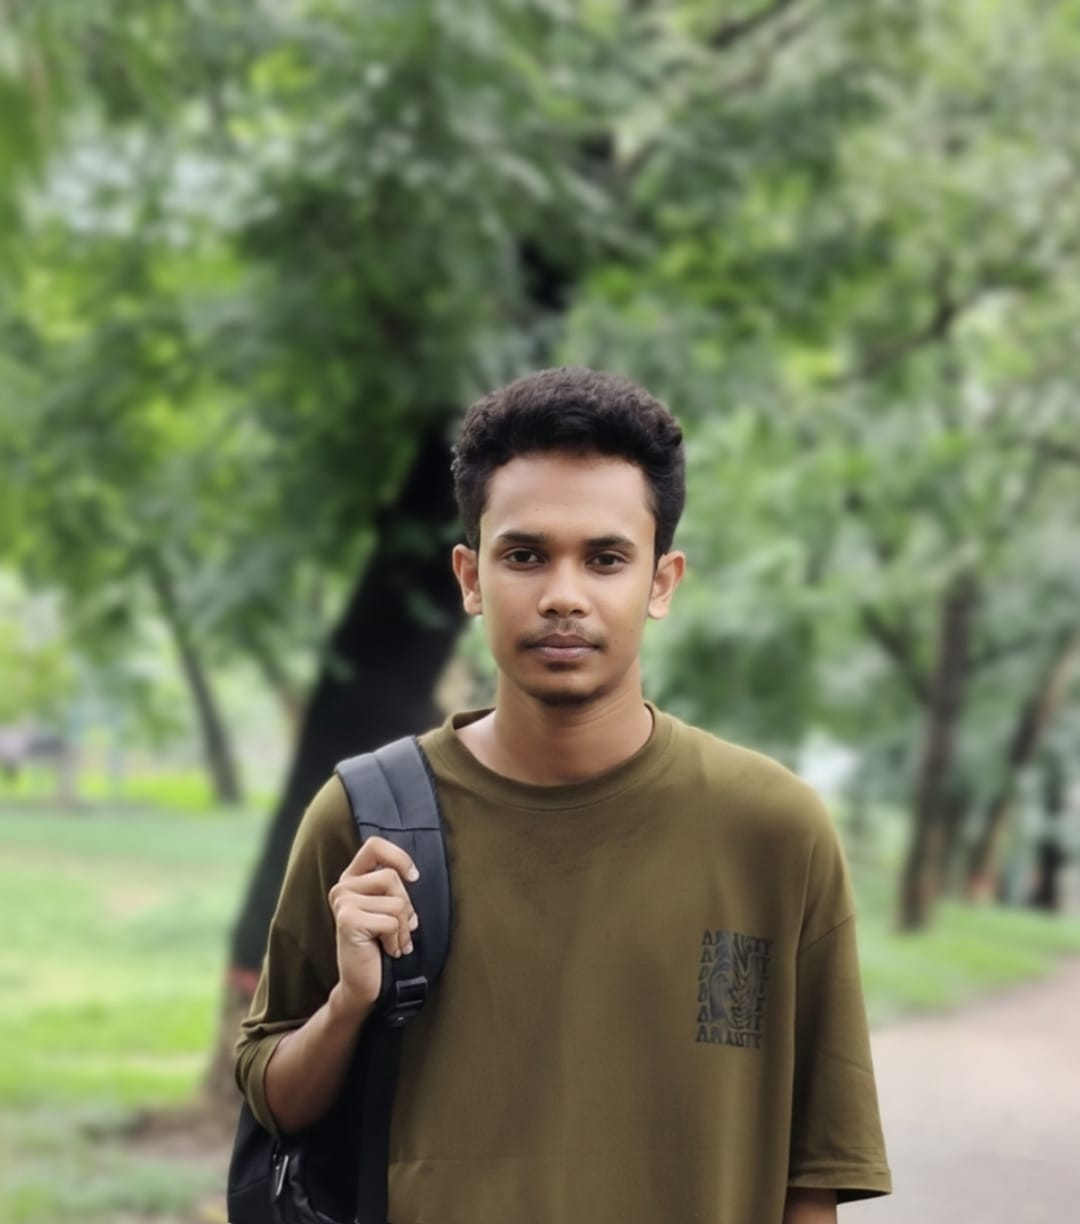
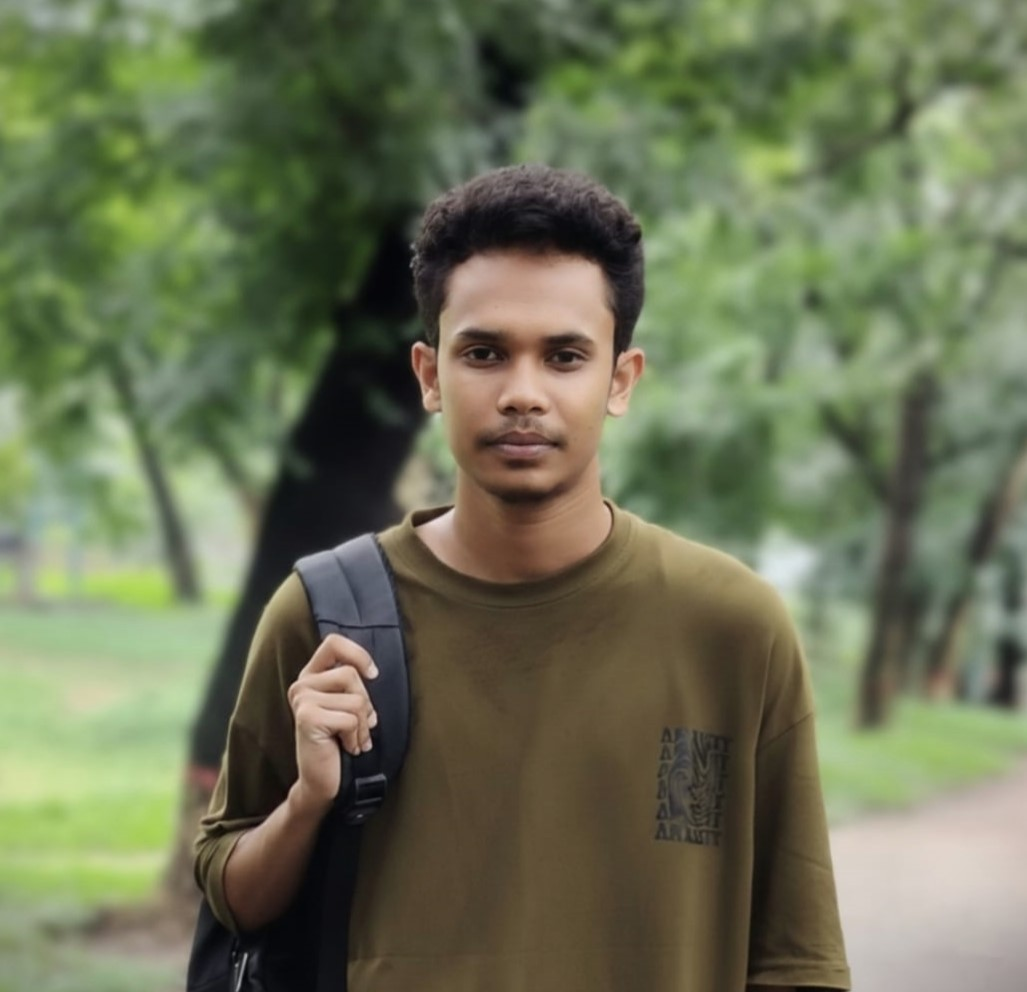
creating and stylinga contacts area for connnect or contact with me

diff --git a/Portfolio/porf.html b/Portfolio/porf.html
@@ -5,24 +5,39 @@
     <meta name="viewport" content="width=device-width, initial-scale=1.0">
     <title>My Portfolio</title>
     <link rel="stylesheet" href="portf.css">
+    <style>
+        
+    </style>
 </head>
 <body>
     <div class="main">
         <div class="sidebar">
             <div class="profile">
-                <img src="images/iam2.jpeg" alt="">
-                <h1>Mahin Ahmed</h1>
+                <img src="images/iam2.jpeg" alt="" class="profile_img">
+                <h2>Mahin Ahmed</h2>
                 <p>Frontend Developer</p>
             </div>
             <div class="information">
-                <p>Email</p>
-                <a href="#">mahinahmed.tech@gmail.com</a>
-                <p>Phone</p>
-                <a href="#">01309879520</a>
-                <p>Location</p>
-                <p>Dhaka, Bangladesh</p>
+                <div class="email">
+                <h3 class="label">Email</h3>
+                <a href="#" class="value">mahinahmed.tech@gmail.com</a>
+                </div>
+                <div class="phone">
+                <h3 class="label">Phone</h3>
+                <a href="#" class="value">01309879520</a>
+                </div >
+                <div class="location">
+                <h3 class="label">Location</h3>
+                <p class="value">Dhaka, Bangladesh</p>
+                </div>
             </div>
-            <div class="links"></div>
+            <div class="links">
+                <a href="#"> <img src="images/github.svg" alt="github image"></a>
+
+                <a href="#"><img src="images/linkedin.svg" alt="linkedin image"></a>
+
+                <a href="#"> <img src="images/fiverr.svg" alt="fiverr image"></a>
+            </div>
         </div>
         <div class="content">
 

diff --git a/Portfolio/portf.css b/Portfolio/portf.css
@@ -1,27 +1,86 @@
-*{
+* {
     padding: 0;
     margin: 0;
     box-sizing: border-box;
 }
-body{
+
+body {
     background-color: #1e1e1e;
     font-family: sans-serif;
     color: #a0a0a0;
     line-height: 1.6;
 }
-.main{
+/*             Main Content Area              */
+.main {
     display: grid;
     grid-template-columns: 350px 1fr;
     max-width: 1200px;
     gap: 45px;
     margin: auto;
-    padding-top: 40px ;
+    padding-top: 40px;
 }
-.sidebar{
+
+.sidebar {
+    height: 90vh;
+    background-color: #2a2a2a;
+    padding: 40px;
+}
+
+.content {
     height: 90vh;
     background-color: #2a2a2a;
 }
-.content{
-    height: 90vh;
-    background-color: #2a2a2a;
+
+
+/*                    Profile            */
+
+.profile {
+    text-align: center;
 }
+
+.profile_img {
+    height: 120px;
+    width: 120px;
+    border-radius: 50%;
+    border: 1px solid #3a3a3a;
+    -webkit-user-drag: none;
+    user-select: none;
+}
+
+.profile h2 {
+    font-size: 1.5rem;
+    font-weight: 700;
+    margin-top: 20px;
+    color: #e0e0e0;
+}
+
+.profile p {
+    background-color: #1e1e1e;
+    padding: 5px 15px;
+    color: #ffbf00;
+    border: 1px solid #3a3a3a;
+    font-size: 0.8rem;
+    border-radius: 8px;
+    display: inline-block;
+    margin-top: 10px;
+}
+/*               infomation               */
+
+.information{
+    margin-top: 30px;
+    border-top: 1px solid #3a3a3a;
+    padding-top: 20px;
+}
+.label{
+    font-weight: 500;
+    font-size: 0.8rem;
+    color: #a0a0a0;
+}
+.value{
+    color: #e0e0e0;
+    text-decoration: none;
+}
+.email, .phone, .location{
+    margin-bottom: 15px;
+}
+/*          Social Links            */
